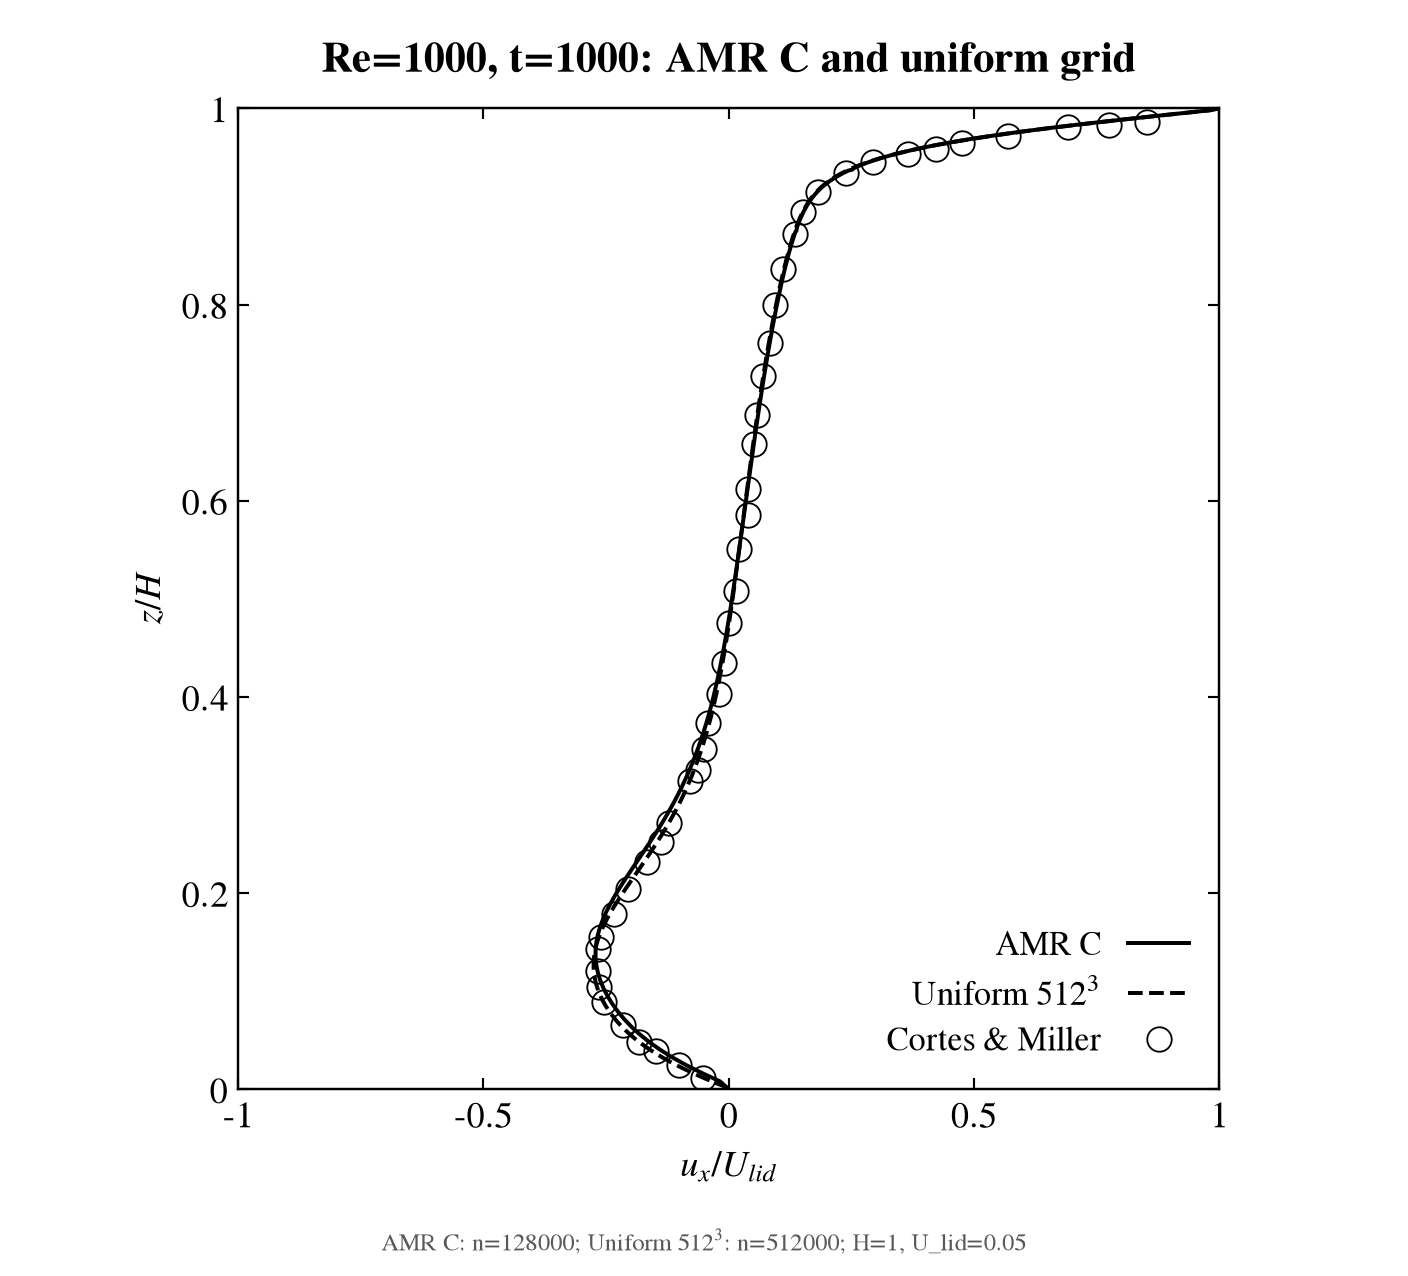
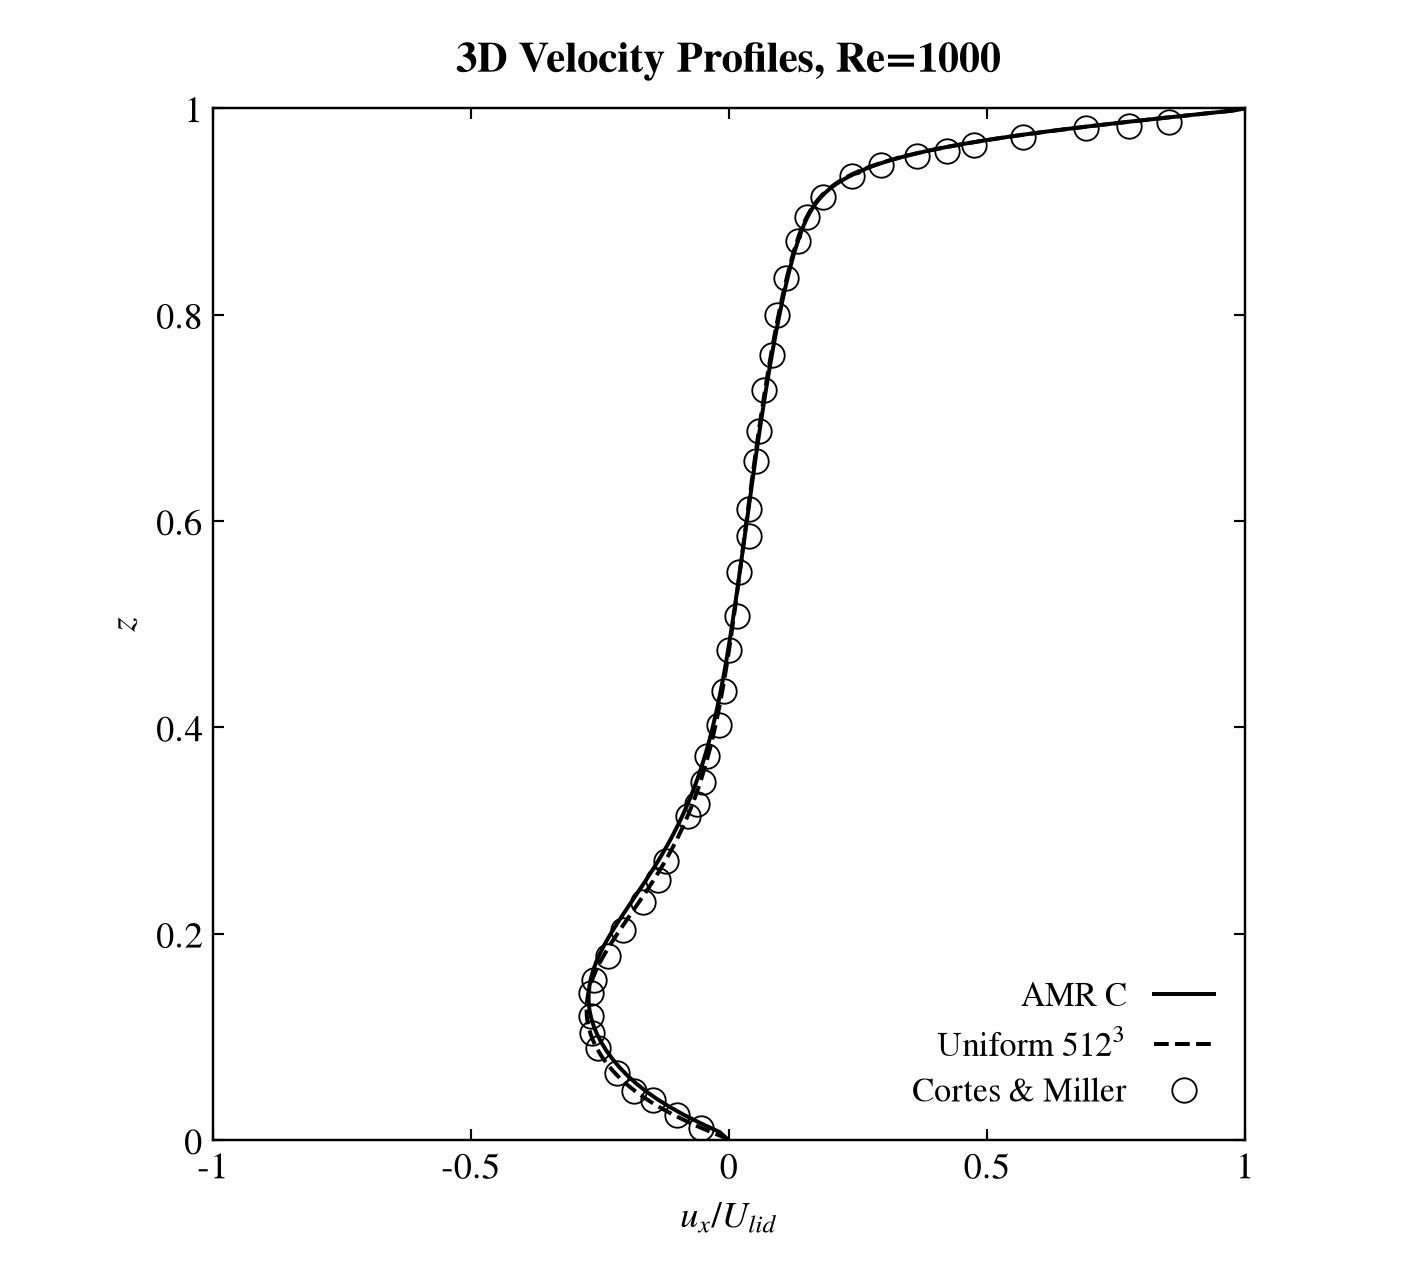
调整中心线图标题与页脚选项

diff --git a/projects/3Dcases/Computing_performance_test/BOX3D_OSI/data_post_processing/plot_centerline.py b/projects/3Dcases/Computing_performance_test/BOX3D_OSI/data_post_processing/plot_centerline.py
@@ -85,7 +85,7 @@ def reference_errors(simulation, reference, *, outside="error"):
 def plot_profiles(profiles, references, output, *, title="Centerline velocity comparison",
                   reference_source="none", reference_labels=None, xlim=(-1, 1), ylim=(0, 1),
                   xlabel=r"$u_x/U_{lid}$", ylabel=r"$z/H$", figsize=(6.4, 5.8),
-                  linewidth=0.9, markersize=8, dpi=220, square_axes=False):
+                  linewidth=0.9, markersize=8, dpi=220, square_axes=False, show_footer=True):
     """共用绘图实现；曲线、来源、步数和各自标度由调用方传入，不绑定作业号或 Re。"""
     # 延迟加载绘图库，使提取入口复用数据校验时不依赖绘图环境。
     import matplotlib
@@ -129,13 +129,14 @@ def plot_profiles(profiles, references, output, *, title="Centerline velocity co
             spine.set_linewidth(0.8)
         ax.legend(fontsize=11, loc="best" if ylim[1] - ylim[0] < 1 else "lower right", frameon=False, markerfirst=False,
                   handlelength=1.8, labelspacing=0.35)
-        # 页脚只保留可复核的步数与标度；完整来源和误差保存在同名 JSON。
-        steps = "; ".join(f'{p["label"]}: n={p["step"]}' for p in profiles)
-        scales = list(dict.fromkeys(
-            f'H={p["normalization"]["H"]:g}, U_lid={p["normalization"]["U_lid"]:g}' for p in profiles))
-        fig.text(0.5, 0.015, steps + "; " + "; ".join(scales),
-                 ha="center", va="bottom", fontsize=8, color="0.35")
-        fig.tight_layout(rect=(0, 0.04, 1, 1))
+        if show_footer:
+            # 完整来源和误差保存在同名 JSON。
+            steps = "; ".join(f'{p["label"]}: n={p["step"]}' for p in profiles)
+            scales = list(dict.fromkeys(
+                f'H={p["normalization"]["H"]:g}, U_lid={p["normalization"]["U_lid"]:g}' for p in profiles))
+            fig.text(0.5, 0.015, steps + "; " + "; ".join(scales),
+                     ha="center", va="bottom", fontsize=8, color="0.35")
+        fig.tight_layout(rect=(0, 0.04 if show_footer else 0, 1, 1))
         output = Path(output)
         output.parent.mkdir(parents=True, exist_ok=True)
         fig.savefig(output, dpi=dpi)
@@ -159,6 +160,7 @@ def main():
     parser.add_argument("--allow-unmasked", action="store_true", help="显式接受没有有效性掩码的旧 CSV")
     parser.add_argument("--outside-reference", choices=["error", "exclude"], default="error")
     parser.add_argument("--title", default="Centerline velocity comparison")
+    parser.add_argument("--no-footer", action="store_true", help="隐藏图底部的步数与归一化标度")
     parser.add_argument("--xlim", nargs=2, type=float, default=(-1, 1))
     parser.add_argument("--ylim", nargs=2, type=float, default=(0, 1))
     parser.add_argument("--xlabel", default=r"$u_x/U_{lid}$")
@@ -214,7 +216,8 @@ def main():
         reference_source += f" ({args.reference_source})"
     plot_profiles(profiles, references, args.output, title=args.title, reference_source=reference_source,
                   xlim=args.xlim, ylim=args.ylim, xlabel=args.xlabel, ylabel=args.ylabel, figsize=args.figsize,
-                  linewidth=args.linewidth, markersize=args.markersize, dpi=args.dpi, square_axes=args.square_axes)
+                  linewidth=args.linewidth, markersize=args.markersize, dpi=args.dpi, square_axes=args.square_axes,
+                  show_footer=not args.no_footer)
     with args.output.with_suffix(".csv").open("w", newline="") as stream:
         writer = csv.writer(stream)
         writer.writerow(["profile", "step", "z_over_H", "u_over_ulid"])
